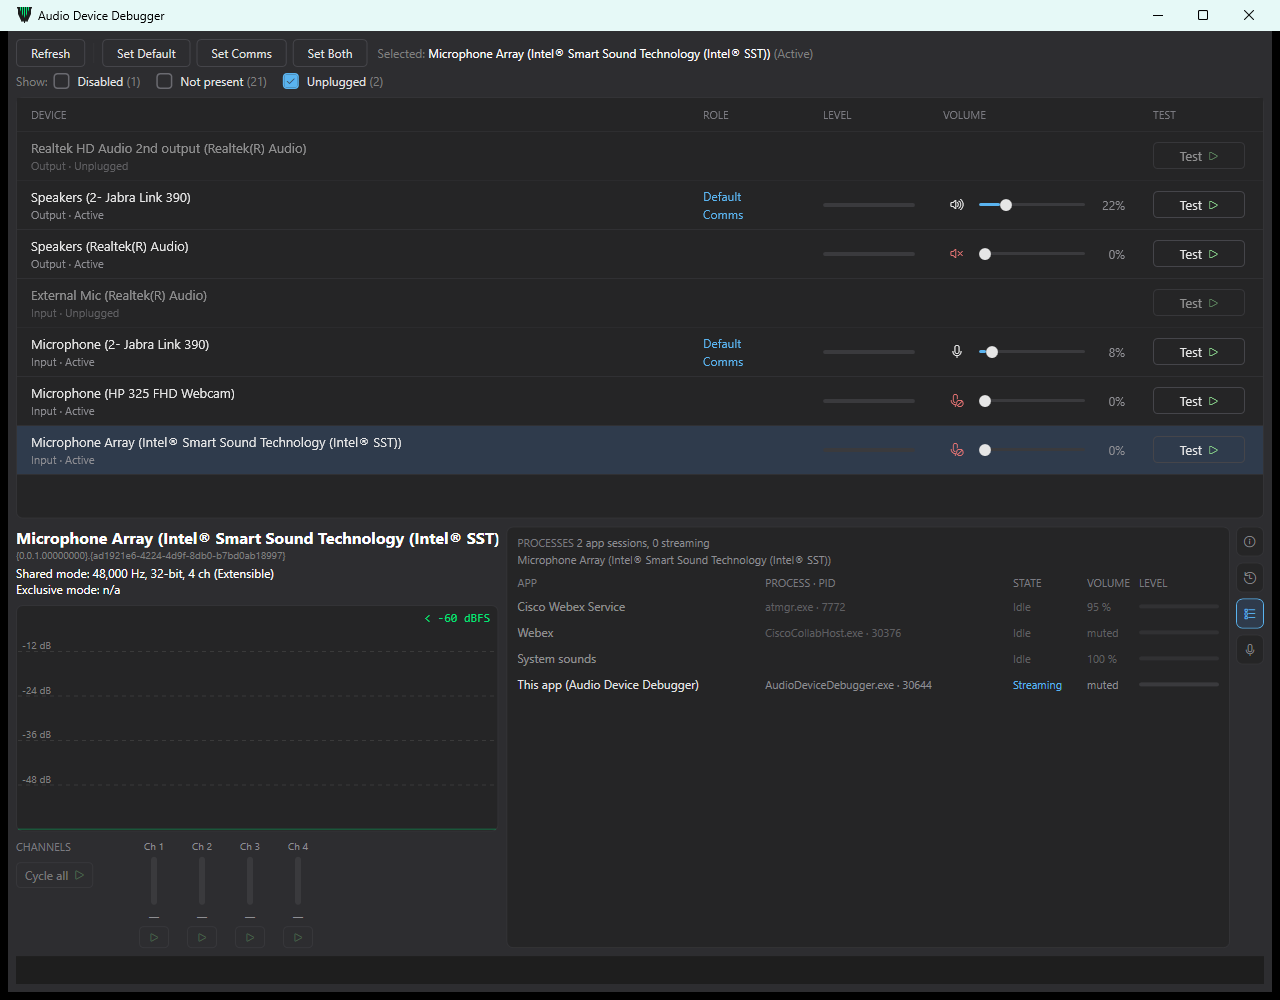
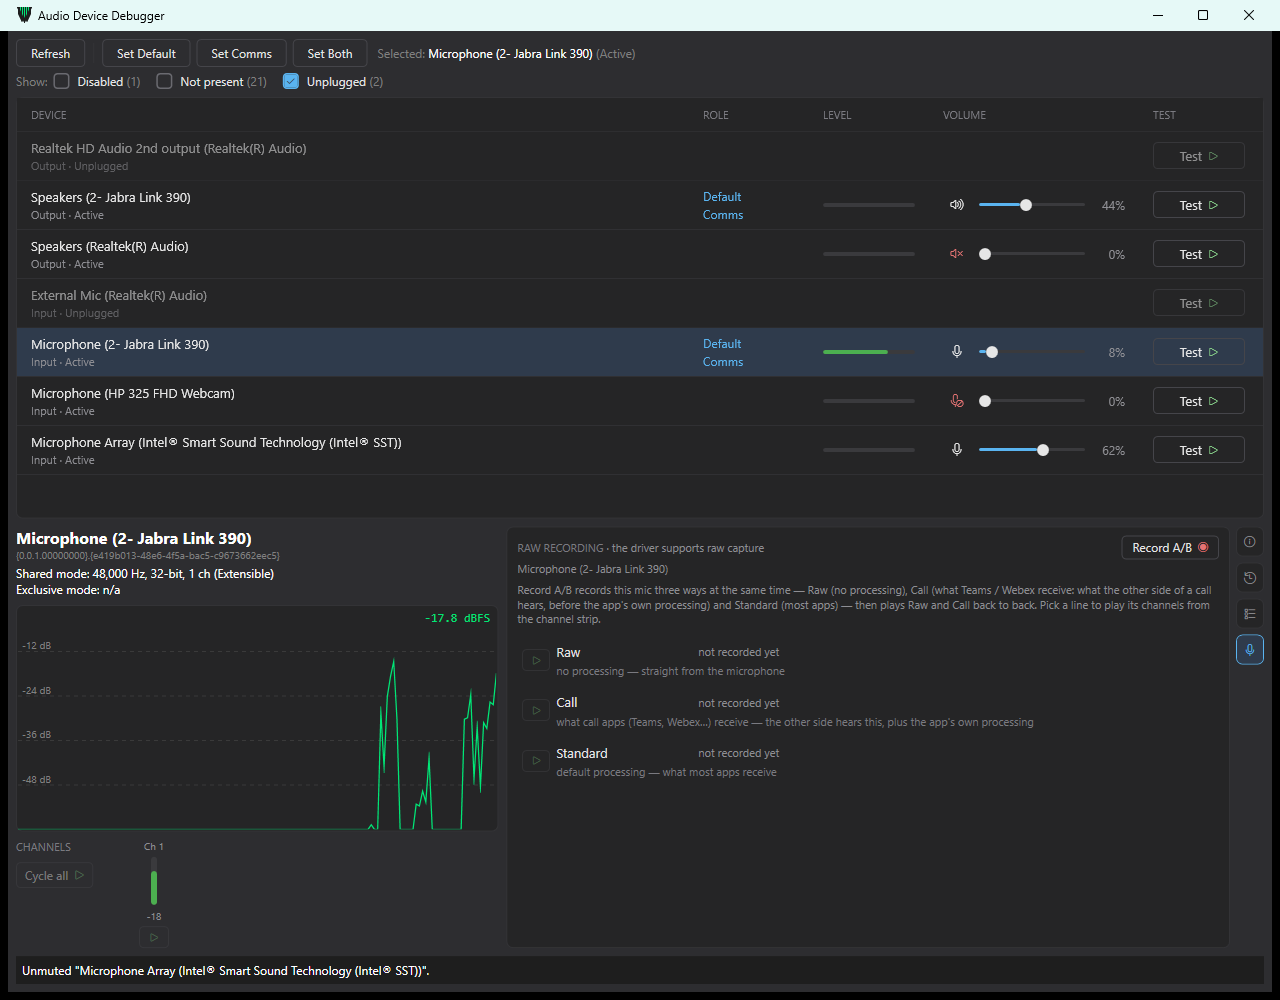
docs: make the headset mic with the RAW RECORDING tab the main screenshot
The README screenshot showed the laptop mic array muted, so its graph and
meters were flat, and the PROCESSES tab, which explains the least on its own.
It now shows the Jabra Link 390 headset microphone live, with the RAW
RECORDING tab open and the two-line Default/Comms roles. The caption and alt
text describe the new picture.

diff --git a/README.md b/README.md
@@ -10,10 +10,11 @@ Built for the "why isn't my mic/speaker working", "which of these five USB heads
 does my headset sound terrible in calls" situations, where Windows' own Sound settings only give you a name and a
 default toggle.
 
-![Audio Device Debugger: the device list with roles, live levels and volume, and the details of a laptop mic array — level graph, per-channel meters and the PROCESSES tab showing which apps have it open](docs/images/screenshot.png)
+![Audio Device Debugger: the device list with Default and Comms roles, live levels and volume, and the details of a USB headset microphone with its level graph and the RAW RECORDING tab open](docs/images/screenshot.png)
 
-*The device list (roles, live levels, volume and mute, Test buttons) and, below it, the selected laptop mic array:
-its formats, rolling dB level graph, per-channel meters, and the PROCESSES tab listing the apps that have it open.*
+*The device list (Default and Comms roles, live levels, volume and mute, Test buttons) and, below it, the selected
+USB headset microphone: its format, rolling dB level graph, channel meter, and the RAW RECORDING tab, ready to record
+it raw and as call apps receive it.*
 
 ## Features
 
